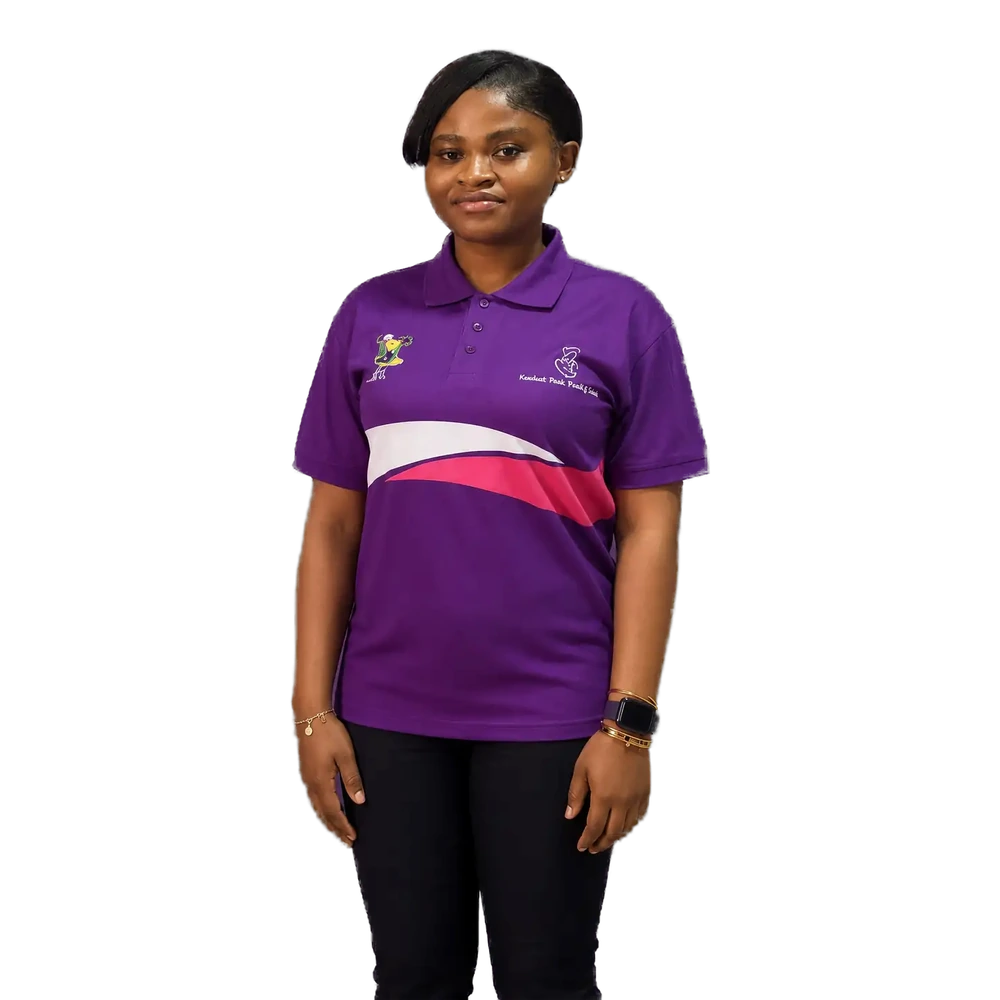
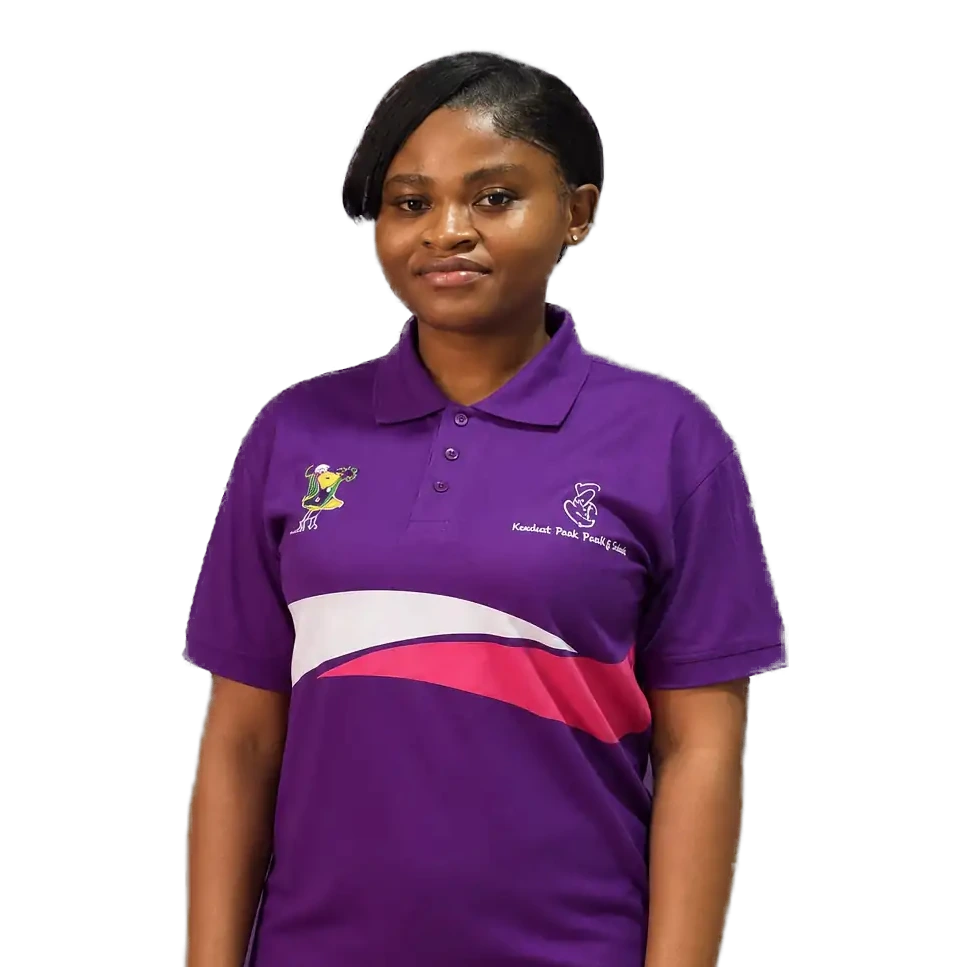
Match Adefolake portrait crop to house style, enable 3D viewer on mobile, add planner promotion band

diff --git a/app/globals.css b/app/globals.css
@@ -1170,3 +1170,49 @@ em { font-weight: 500; color: var(--violet-700); }
   .lead-card { grid-template-columns:1fr; }
   .lead-pitch, .lead-form { padding:30px 24px; }
 }
+
+/* ==================== ROUND 6: MOBILE 3D + PLANNER BAND ==================== */
+
+/* The 3D viewer now runs on phones too. */
+@media (max-width: 720px) {
+  .embryo-stage { display:block; max-width:none; }
+  .embryo-viewer { gap:24px; }
+  .embryo-canvas { touch-action:none; }
+  .embryo-hint { bottom:12px; font-size:.6rem; }
+  .embryo-daytag { left:14px; top:13px; padding:6px 12px; font-size:.6rem; }
+  .embryo-steps { grid-template-columns:repeat(2,1fr); gap:7px; }
+  .embryo-panel h3 { font-size:1.6rem; }
+}
+
+.planner-band { padding:78px 0; background:linear-gradient(140deg,#2c1440,var(--violet-950) 55%,#3f1b55); color:#fff; overflow:hidden; }
+.planner-band-inner { display:grid; grid-template-columns:.8fr 1.2fr; gap:56px; align-items:center; }
+.planner-band-copy h2 { margin-top:12px; font-size:2.4rem; line-height:1.14; color:#fff; }
+.planner-band-copy h2 em { color:#e2c98f; font-style:italic; }
+.planner-band-copy p { margin-top:16px; max-width:56ch; color:rgba(255,255,255,.8); font-size:.92rem; line-height:1.78; }
+.planner-band-note { color:#e2c98f!important; font-style:italic; }
+.planner-band-copy .button { margin-top:26px; }
+
+/* Little document mock, drawn in CSS so it costs nothing to load */
+.planner-band-doc { position:relative; justify-self:center; width:min(250px,74vw); aspect-ratio:.72; transform:rotate(-4deg); transition:transform 600ms cubic-bezier(.16,1,.3,1); }
+.planner-band:hover .planner-band-doc { transform:rotate(-1deg) translateY(-6px); }
+.planner-doc-page { position:absolute; inset:0; padding:30px 24px; background:linear-gradient(160deg,#fffdfb,#f4ede5); border-radius:8px; box-shadow:0 30px 70px rgba(0,0,0,.45); }
+.planner-band-doc::before, .planner-band-doc::after { content:""; position:absolute; inset:0; background:#efe6dc; border-radius:8px; }
+.planner-band-doc::before { transform:rotate(5deg) translate(10px,6px); opacity:.28; }
+.planner-band-doc::after { transform:rotate(2.5deg) translate(5px,3px); opacity:.5; }
+.planner-doc-tag { position:absolute; z-index:3; top:-13px; left:50%; transform:translateX(-50%); padding:6px 14px; background:var(--gold); color:#241233; font-size:.6rem; font-weight:800; letter-spacing:.07em; border-radius:999px; white-space:nowrap; }
+.planner-doc-page strong { display:block; color:var(--violet-950); font-family:var(--font-display),Georgia,serif; font-size:1.05rem; line-height:1.2; }
+.planner-doc-page i { display:block; height:5px; margin-top:9px; background:rgba(52,23,77,.13); border-radius:3px; }
+.planner-doc-page i:nth-of-type(1) { margin-top:16px; width:100%; }
+.planner-doc-page i:nth-of-type(2) { width:88%; }
+.planner-doc-page i:nth-of-type(3) { width:64%; }
+.planner-doc-bar { display:flex; gap:2px; margin:16px 0 4px; height:15px; border-radius:3px; overflow:hidden; }
+.planner-doc-bar span:nth-child(1) { width:1%; background:var(--gold); }
+.planner-doc-bar span:nth-child(2) { width:10%; background:#946ba9; }
+.planner-doc-bar span:nth-child(3) { width:41%; background:var(--violet-800); }
+.planner-doc-bar span:nth-child(4) { width:48%; background:var(--violet-950); }
+
+@media (max-width: 900px) {
+  .planner-band { padding:56px 0; }
+  .planner-band-inner { grid-template-columns:1fr; gap:34px; }
+  .planner-band-copy h2 { font-size:1.9rem; }
+}

diff --git a/app/components/EmbryoViewer.tsx b/app/components/EmbryoViewer.tsx
@@ -91,7 +91,6 @@ export function EmbryoViewer() {
     const mount = mountRef.current;
     if (!mount) return;
     if (window.matchMedia("(prefers-reduced-motion: reduce)").matches) return;
-    if (window.matchMedia("(max-width: 720px)").matches) return;
 
     let disposed = false;
     let cleanup: (() => void) | undefined;
@@ -107,11 +106,12 @@ export function EmbryoViewer() {
             setLive(true);
 
             const scene = new THREE.Scene();
-            const camera = new THREE.PerspectiveCamera(38, 1, 0.1, 100);
+            const camera = new THREE.PerspectiveCamera(window.innerWidth < 720 ? 44 : 38, 1, 0.1, 100);
             camera.position.set(0, 0, 4.6);
 
             const renderer = new THREE.WebGLRenderer({ antialias: true, alpha: true });
-            renderer.setPixelRatio(Math.min(window.devicePixelRatio, 2));
+            const small = window.innerWidth < 720;
+            renderer.setPixelRatio(Math.min(window.devicePixelRatio, small ? 1.5 : 2));
             renderer.setSize(mount.clientWidth, mount.clientHeight);
             mount.appendChild(renderer.domElement);
 
@@ -131,7 +131,7 @@ export function EmbryoViewer() {
 
             // Zona pellucida, the shell surrounding the embryo.
             const zona = new THREE.Mesh(
-              new THREE.SphereGeometry(1.16, 48, 48),
+              new THREE.SphereGeometry(1.16, small ? 28 : 48, small ? 28 : 48),
               new THREE.MeshStandardMaterial({
                 color: 0xd8c4e4,
                 transparent: true,
@@ -143,7 +143,7 @@ export function EmbryoViewer() {
             );
             group.add(zona);
 
-            const geometry = new THREE.SphereGeometry(1, 24, 24);
+            const geometry = new THREE.SphereGeometry(1, small ? 16 : 24, small ? 16 : 24);
             const cellMaterial = new THREE.MeshStandardMaterial({
               color: 0xf6ecfa,
               roughness: 0.34,
@@ -275,7 +275,7 @@ export function EmbryoViewer() {
           </div>
         )}
         <p className="embryo-hint" aria-hidden="true">
-          Drag to rotate
+          Drag or swipe to rotate
         </p>
       </div>
 

diff --git a/app/resources/page.tsx b/app/resources/page.tsx
@@ -1,5 +1,6 @@
 import type { Metadata } from "next";
 import Link from "next/link";
+import { PlannerBand } from "../components/PlannerBand";
 import { Accordion } from "../components/Accordion";
 import { contact, faqs } from "../data";
 import { guides } from "../content";
@@ -19,6 +20,7 @@ export default function ResourcesPage() {
       <section className="education-band"><div className="shell education-grid"><div><span className="eyebrow light">Kindred Path Fertility Education Series</span><h2>Practical conversations with fertility professionals.</h2><p>Join the interest list for future webinars and Q&amp;A sessions covering fertility assessment, IVF, male fertility and emotional wellbeing.</p><div className="button-row"><a className="button button-cream" href={`https://wa.me/${contact.whatsapp}?text=${encodeURIComponent("Hello Kindred Path, please add me to the fertility education and webinar interest list.")}`}>Join the interest list</a><Link className="button button-ghost-light" href="/contact">Ask a question</Link></div></div><div className="education-art" aria-hidden="true"><img src="/images/kindred-path-mark-compact.webp" alt="" /><i /><i /></div></div></section>
 
       <section className="section-pad faq-section"><div className="shell faq-grid"><div className="faq-intro"><span className="eyebrow">Frequently asked</span><h2>Start with what you need to know.</h2><p>We have replaced generic promises with answers that respect individual circumstances.</p><Link className="button button-primary" href="/book">Request a consultation</Link></div><Accordion items={faqs} /></div></section>
+          <PlannerBand />
     </main>
   );
 }

diff --git a/app/components/PlannerBand.tsx b/app/components/PlannerBand.tsx
@@ -1,0 +1,38 @@
+import Link from "next/link";
+
+export function PlannerBand() {
+  return (
+    <section className="planner-band">
+      <div className="shell planner-band-inner">
+        <div className="planner-band-doc" aria-hidden="true">
+          <span className="planner-doc-tag">PDF · 5 pages</span>
+          <div className="planner-doc-page">
+            <strong>The questions to ask before you pay for anything.</strong>
+            <i /><i /><i />
+            <div className="planner-doc-bar">
+              <span /><span /><span /><span />
+            </div>
+            <i /><i />
+          </div>
+        </div>
+        <div className="planner-band-copy">
+          <span className="eyebrow light">Free, no strings</span>
+          <h2>
+            Before you pay any clinic, <em>read this.</em>
+          </h2>
+          <p>
+            We published our prices. Then we went further and wrote the guide we would want a member
+            of our own family to have: where the money actually goes, the nine questions to ask any
+            clinic, the five warning signs, and what to bring to a first appointment.
+          </p>
+          <p className="planner-band-note">
+            Take it to our competitors. That is genuinely the point of it.
+          </p>
+          <Link className="button button-light" href="/costs#planner">
+            Get the planner
+          </Link>
+        </div>
+      </div>
+    </section>
+  );
+}

diff --git a/app/page.tsx b/app/page.tsx
@@ -3,6 +3,7 @@ import { Accordion } from "./components/Accordion";
 import { HeroVisual } from "./components/HeroVisual";
 import { EmbryoViewer } from "./components/EmbryoViewer";
 import { AffiliationBand } from "./components/AffiliationBand";
+import { PlannerBand } from "./components/PlannerBand";
 import { currency, totalFor, worked } from "./pricing";
 import { faqs, team, treatments, treatmentSlug } from "./data";
 
@@ -143,6 +144,8 @@ export default function Home() {
           </ul>
         </div>
       </section>
+
+      <PlannerBand />
 
       <AffiliationBand />
 

diff --git a/app/costs/page.tsx b/app/costs/page.tsx
@@ -160,7 +160,7 @@ export default function CostsPage() {
         </div>
       </section>
 
-      <section className="section-pad soft-section">
+      <section className="section-pad soft-section" id="planner">
         <div className="shell">
           <GuideGate>
             <div className="planner">
